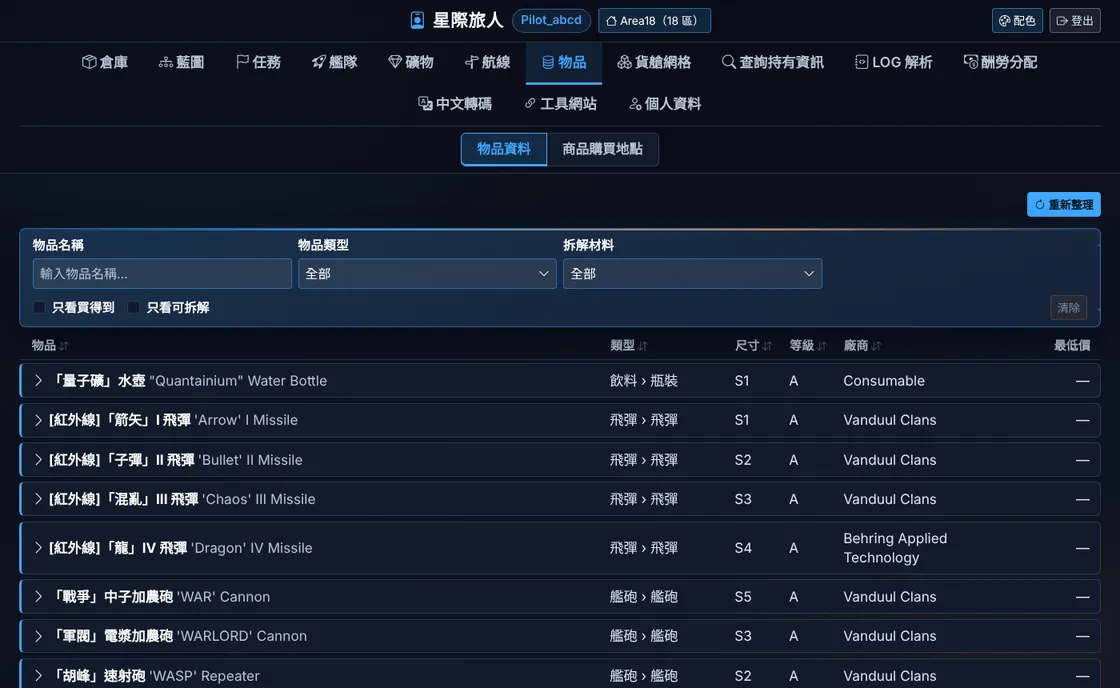
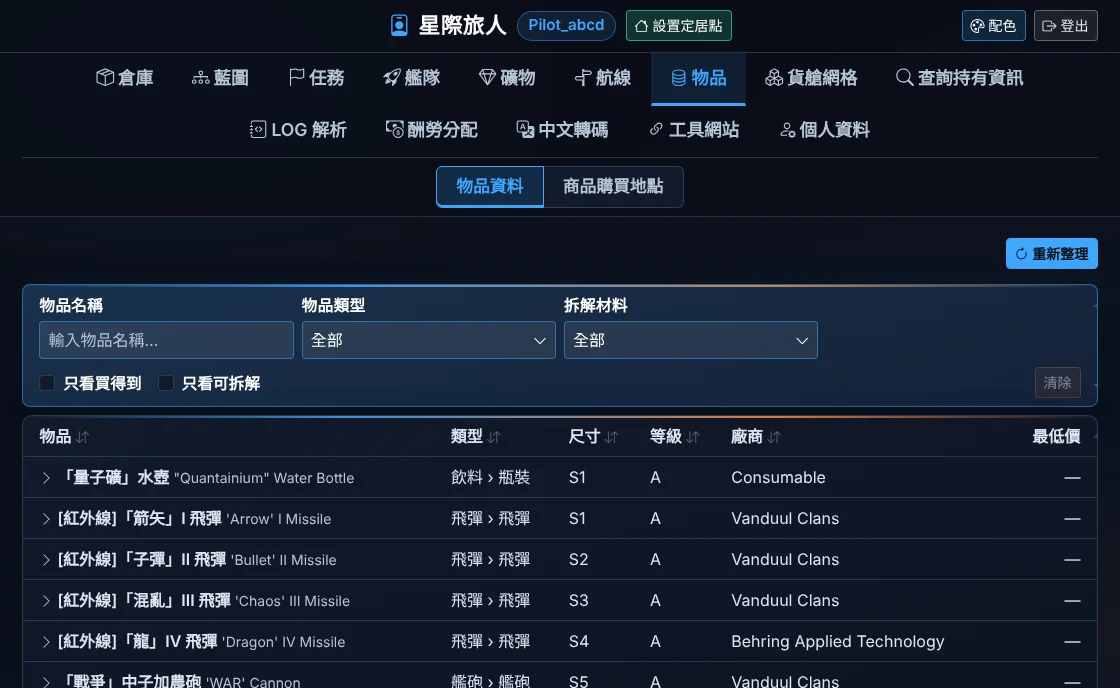
說明文件更新物品資料列表與截圖

diff --git a/frontend/src/views/PlayerHelpView.vue b/frontend/src/views/PlayerHelpView.vue
@@ -195,7 +195,7 @@ const sections = [
     intro: '分「物品資料」和「商品購買地點」兩個子分頁。',
     blocks: [
       { title: '物品資料', figs: [{ src: 'warehouse_items', alt: '物品資料' }], items: [
-        '瀏覽遊戲物品資料庫（含飛船組件），點名稱看詳細數值與購買地點。',
+        '瀏覽遊戲物品資料庫（含飛船組件），點整列看詳細數值與購買地點。',
         '可以依名稱、類型篩選，只看買得到的、只看可拆解的，或依拆解後會得到的材料找物品。',
       ] },
       { title: '商品購買地點', figs: [{ src: 'warehouse_commodities', alt: '勾選兩種商品，列出都買得到的終端' }], items: [

diff --git a/README.md b/README.md
@@ -133,7 +133,7 @@ docker compose exec api git log --oneline -1 2>/dev/null || docker compose exec 
 | **玩家個人頁** | http://localhost:8090/player/me | 分頁：倉庫、藍圖、任務、艦隊、礦物、航線、物品、貨艙網格、查詢持有資訊、LOG 解析、酬勞分配、中文轉碼、工具網站、個人資料（定義在 `frontend/src/utils/playerTabs.js`，順序與開放狀態由後台設定）。分頁列放不下時折行，手機改成底部導覽列＋「更多」。名字右邊的「定居點」按鈕跳出視窗：設定／清除定居點、全部物品轉移到定居點 |
 | 玩家使用說明 | http://localhost:8090/player/help | 公開，不需登入；玩家登入頁有連結。每個分頁的圖文說明（`frontend/src/views/PlayerHelpView.vue`），截圖在 `frontend/public/help/`（webp，示範資料拍的）；功能改版時文字、截圖跟著改 |
 | 倉庫 › 新增／異動 | http://localhost:8090/player/me?tab=warehouse（「新增／異動」按鈕） | 跳出視窗三步驟（`components/StockWizard.vue`）：① 地點（預設上次送出的地點，沒有就用定居點）② 物品：搜尋卡跟倉庫同一個元件，物品類型預設只開量子引擎、護盾、雷達、艦炮、冷卻器、發電機六種飛船組件，其他類型玩家自己加勾（記在瀏覽器）；清單勾選數量不限、換頁保留；「最近登記」一鍵勾選；「貼上清單」每行「名稱 數量」，後端一次比對（`POST /item/match`，可帶 `types`）③ 數量：逐項 ＋增加／－減少、數量、備註，「全部送出」逐項打 `/player/inventory/add`／`remove`，失敗的留著顯示原因。庫存列表每列的「異動」直接帶好地點與物品停在第 ③ 步。舊網址 `?tab=warehouse&sub=add` 會直接打開 |
-| 物品資料 | http://localhost:8090/player/me?tab=items&sub=data | 玩家頁「物品 › 物品資料」：物品主檔（唯讀），名稱、類型、只看買得到、只看可拆解、拆解材料篩選；點名稱看詳細數值與購買地點。只列「玩家頁面顯示」的物品（見[玩家頁面顯示](#玩家頁面顯示自動隱藏)）。舊網址 `?tab=warehouse&sub=items`、`?tab=itemdata` 會導過來 |
+| 物品資料 | http://localhost:8090/player/me?tab=items&sub=data | 玩家頁「物品 › 物品資料」：物品主檔（唯讀），名稱、類型、只看買得到、只看可拆解、拆解材料篩選；點整列看詳細數值與購買地點。只列「玩家頁面顯示」的物品（見[玩家頁面顯示](#玩家頁面顯示自動隱藏)）。舊網址 `?tab=warehouse&sub=items`、`?tab=itemdata` 會導過來 |
 | 航線規劃 | http://localhost:8090/player/me?tab=route | 量子航行路線（`src/models/nav.py`、`components/RoutePlanner.vue`）：選船與量子引擎、起始油量（百分比或油量）、起點、途經站點、終點；可「依星系填入」站點（太空站／主城／地面站，地面站要先選行星），每個站點有開關決定是否加入規劃（最多 40 個，11 個以內精確排序，更多用近似排序），並顯示起點到該站的直線距離；可設「定期回指定站」（每 N 站回指定站一次，排序時一併考慮）。結果有最快／最省油／最順路三種方案，航段表列出經過的 OM 點、跳躍點、距離、時間、油量、補燃料提示、站點特性（特大機庫、外部貨運、對接口）；可切 3D 星圖。飛行中可標記已去過、調整順序、中途插入站點重新規劃；跑完按「完成這趟」把終點設為下一趟的起點、終點重設。API：`/starmap/nav/places`、`/ships`、`/route`、`/sequence`、`/replan` |
 | 合約分配 | http://localhost:8090/player/me?tab=route&sub=contracts | 多份運輸合約（最多 10 份）× 多個小隊（最多 6 隊）自動分配（`src/models/haul.py`、`components/ContractPlanner.vue`）：每份合約多項貨物、每項可多個取貨點／送貨點（各最多 30 個，可依星系填入站點；可設共同送貨點讓全部貨物共用，各項只填各點 SCU；取貨 SCU 可留空：不猜數量，由同一隊一趟去完這些取貨點再送）；四種方案：最快完成／總時間最少／總油量最少，以及「站點平均」（每個站點只給一隊、有貨物相連的站點綁一組，各隊航程距離盡量平均；站點太集中分不開時依序放寬成取貨站共用 → 送貨站共用 → 每趟各自分）。同名貨物分屬不同合約會提醒分開繳交，外掛貨櫃船只派到有外部貨運的站。API：`POST /starmap/nav/contracts`、`/starmap/nav/commodities` |
 | 貨艙網格 | http://localhost:8090/player/me?tab=cargo | 選船、填 1～32 SCU 各種貨櫃數量，擺進船的貨物網格並用 3D 檢視（`components/CargoLoader.vue`、`CargoView3D.vue`、`utils/cargoPack.js`）；「自動裝滿」算出最多裝幾個。航線選船也會顯示 8／16／32 SCU 貨櫃最多幾個。資料是「貨物網格」同步項目（sc-cargo.space）的 `cargo_grid_master`，API `GET /starmap/nav/cargo-grids` |
